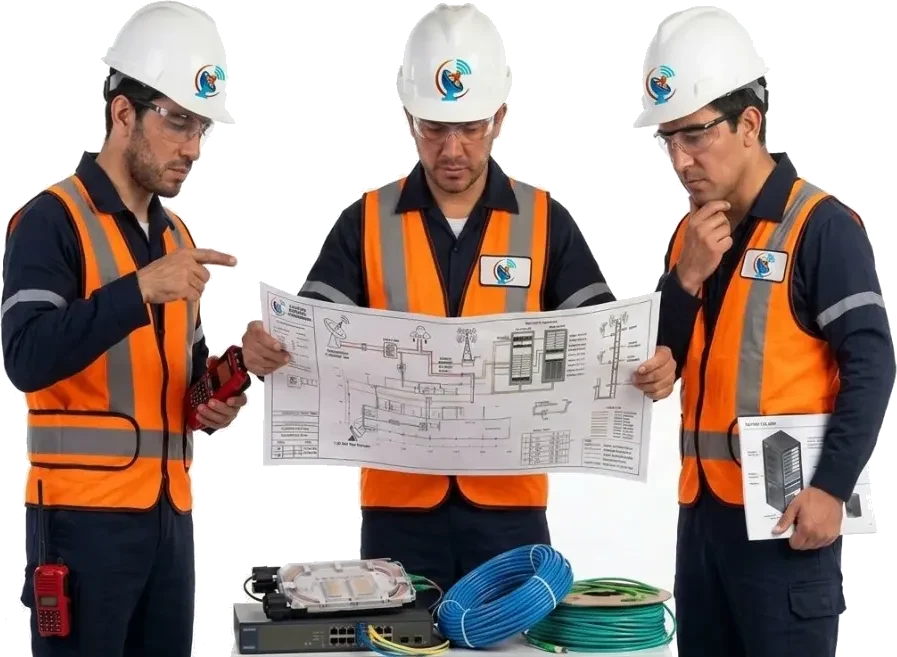
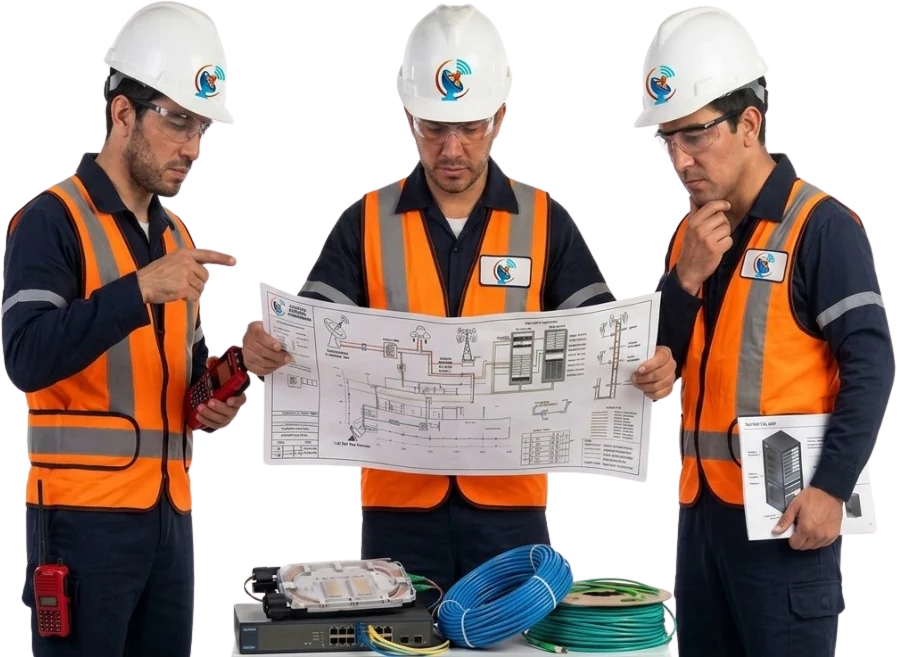
Las fichas del hero bajan al pie de la foto
Quedaban a la altura de los cascos y una tapaba la cabeza de un operario.
Esa banda es la de las caras, así que ninguna ficha puede ir ahí: ahora van
las dos al pie, una a cada lado, apoyadas sobre el margen reservado y por
debajo de la figura. Comprobado: ambas empiezan al 100 % de la altura de la
foto, y ninguna cae sobre una cara.

Se usa el PNG sin fondo que entregó el cliente, que viene a resolución
completa: 1227x685, y 897x657 una vez recortados los márgenes vacíos, o sea
1,72x a los 522 px que ocupa en el hero. Se retiran el recorte propio y su
script, que ya no hacen falta, y la exportación reducida de remove.bg.

diff --git a/src/components/HeroFoto.css b/src/components/HeroFoto.css
@@ -60,19 +60,17 @@
   color: var(--text);
 }
 
-/* En diagonal y por fuera de la figura: una asomando por el borde izquierdo
-   a la altura de las cabezas —la única banda con aire— y la otra apoyada
-   bajo los equipos, en el margen inferior. */
+/* Las dos al pie, una a cada lado. Arriba no pueden ir: esa banda es la de
+   los cascos y las caras, y taparlas arruina la foto. Abajo se apoyan sobre
+   el margen reservado, por debajo de la figura. */
 .herofoto-ficha--cuadrillas {
-  top: 2%;
+  bottom: 0;
   left: 0;
-  transform: translateX(-16%);
 }
 
 .herofoto-ficha--sedes {
   bottom: 0;
   right: 0;
-  transform: translateX(10%);
 }
 
 /* ---------------------------------------------------------- Móvil ---- */
